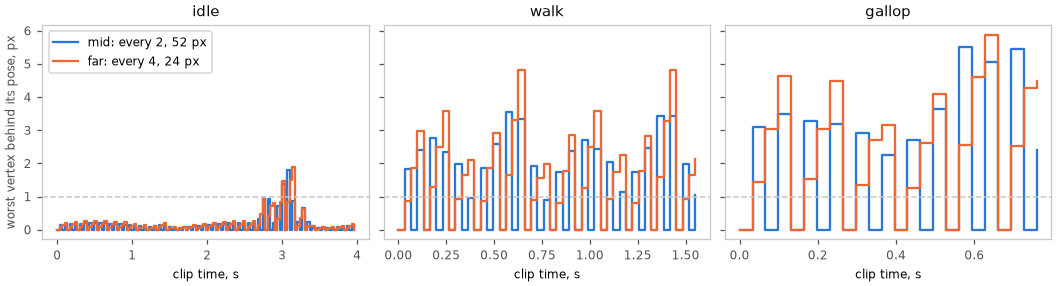
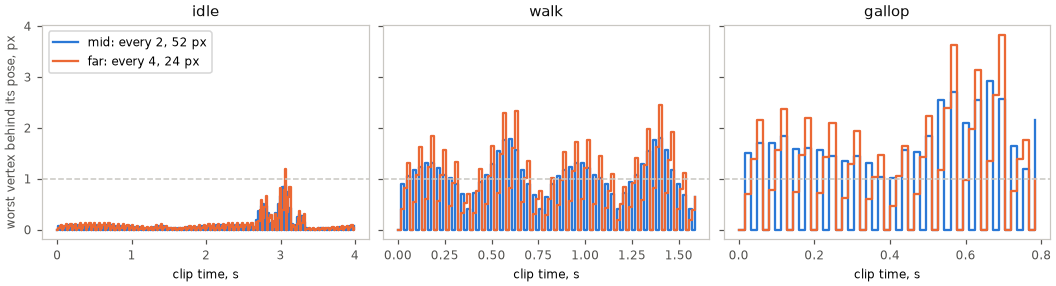
docs: align animation rate references and figures

diff --git a/launcher/tools/render/settings/tests/test_render_asset.py b/launcher/tools/render/settings/tests/test_render_asset.py
@@ -23,7 +23,9 @@ class RenderAssetTests(unittest.TestCase):
         self.assertEqual(render_asset.load(self.settings("batched = false\n")),
                          {"cull": True, "depth_fit": True, "batched": False, "partial_redraw": True, "lod.tolerance_px": 2.0,
                           "lod.hysteresis_px": 0.5, "lod.coverage_permille": 250, "lod.pick_every": 4,
-                          "lod.triangle_budget": 0, "lod.blend": 0, "lod.blend_px": 0.25})
+                          "lod.triangle_budget": 0, "lod.blend": 0, "lod.blend_px": 0.25}
+                         | {key: value for key, value in render_asset.read(render_asset.DEFAULT).items()
+                            if key.startswith("anim.")})
         lod = render_asset.load(self.settings("[lod]\ncoverage_permille = 100\n"))
         self.assertEqual(lod["lod.coverage_permille"], 100)
 
@@ -32,7 +34,11 @@ class RenderAssetTests(unittest.TestCase):
         self.assertEqual((list(rows.items()), frac), ([("cull", [0]), ("depth_fit", [1]), ("batched", [1]),
                                                   ("partial_redraw", [1]), ("lod.tolerance_px", [32]), ("lod.hysteresis_px", [8]),
                                                   ("lod.coverage_permille", [250]), ("lod.pick_every", [4]),
-                                                  ("lod.triangle_budget", [0]), ("lod.blend", [0]), ("lod.blend_px", [4])],
+                                                  ("lod.triangle_budget", [0]), ("lod.blend", [0]), ("lod.blend_px", [4])]
+                                                  + [(key, [int(value * (1 << render_asset.FRAC_BITS))
+                                                            if render_asset.fields()[key][0] == "float" else value])
+                                                     for key, value in render_asset.read(render_asset.DEFAULT).items()
+                                                     if key.startswith("anim.")],
                                                  4))
 
     def test_an_int_bakes_as_itself_up_to_a_row_s_most(self):

diff --git a/launcher/tools/tests/test_rate_figures.py b/launcher/tools/tests/test_rate_figures.py
@@ -29,6 +29,39 @@ class RateFiguresTest(unittest.TestCase):
                     "anim.far_every": 4, "anim.far_px": 20.0}
         self.assertEqual([(every, px) for _, every, px in rate_figures.tiers(settings)], [(2, 52.0), (4, 24.0)])
 
+    def test_lag_uses_the_worst_of_several_vertices(self):
+        frames = [[(0, 0, 0), (0, 0, 0)], [(1, 0, 0), (0, 3, 4)],
+                  [(9, 0, 0), (0, 0, 0)], [(10, 0, 0), (0, 0, 2)]]
+        self.assertEqual(rate_figures.lag(frames, 2), [0, 5, 0, 2])
+
+    def test_loop_frame_count_edges(self):
+        class Asset:
+            def __init__(self, duration):
+                self.seconds = duration
+
+            def duration(self, clip):
+                return self.seconds
+
+            def sample(self, clip, time):
+                return time
+
+            def skin(self, time):
+                return [[(time, 0, 0)]], None
+
+        frame = rate_figures.FRAME_MS / rate_figures.MS_PER_S
+        for duration, count in ((0, 1), (frame / 2, 1), (frame, 1), (2 * frame, 2), (2.5 * frame, 2)):
+            with self.subTest(duration=duration):
+                times, frames = rate_figures.loop(Asset(duration), "clip")
+                self.assertEqual(times, [i * frame for i in range(count)])
+                self.assertEqual(len(frames), count)
+
+    def test_tiers_read_the_default_settings_keys(self):
+        settings = rate_figures.render_asset.read(rate_figures.render_asset.DEFAULT)
+        got = [(every, px) for _, every, px in rate_figures.tiers(settings)]
+        self.assertEqual(got, [(settings[f"anim.{name}_every"],
+                               settings[f"anim.{name}_px"] + settings["anim.hysteresis_px"])
+                              for name in rate_figures.TIER_NAMES])
+
     def test_the_radius_is_the_half_diagonal_of_the_box(self):
         self.assertAlmostEqual(rate_figures.bind_radius([(0.0, 0.0, 0.0), (2.0, 2.0, 1.0)]), 1.5)
 

diff --git a/launcher/tools/anim/playback/rate_figures.py b/launcher/tools/anim/playback/rate_figures.py
@@ -8,7 +8,6 @@ Between poses a copy draws the pose of the last frame it was posed on, which cau
 lags by the clip's motion over up to N - 1 frames. The worst vertex's offset, in model units, is scaled to
 pixels as the LOD measures size: the bind pose's box, its half diagonal the radius, drawn at the tier's widest
 (its threshold plus the hysteresis). Prints each clip's worst and mean per tier.
-launcher/tools/render/render_doc_images.sh runs it.
 """
 
 import argparse
@@ -18,12 +17,13 @@ import sys
 
 TOOLS = pathlib.Path(__file__).resolve().parents[2]
 sys.path.insert(0, str(TOOLS))
+from build.c_header import read_define  # noqa: E402
 from docs.plot_style import FAINT, LABEL_SIZE, MUTED, SLOTS, save, style_axes, subplots  # noqa: E402
 from r3d import gltf_skin  # noqa: E402
 from render.settings import render_asset  # noqa: E402
 
-# The frame the lag is measured at: a 30 Hz frame, the board's rate for a skinned scene.
-FRAME_MS = 33
+# The board still-herd comparison uses this same step.
+FRAME_MS = read_define(TOOLS.parent / "main/lab/test/lab_test.h", "LAB_TEST_FRAME_MS")
 MS_PER_S = 1000
 PANEL = (3.2, 2.6)  # inches per panel
 ONE_PIXEL = 1.0

diff --git a/docs/Citations.md b/docs/Citations.md
@@ -125,4 +125,4 @@ How to add or cite one is in [Citing sources](tools/Citing-Sources.md).
 | <a id="strugar-2009"></a>[118] | F. Strugar. *Continuous Distance-Dependent Level of Detail for Rendering Heightmaps.* Journal of Graphics, GPU, and Game Tools 14(4), 2009. [doi:10.1080/2151237X.2009.10129287](https://doi.org/10.1080/2151237X.2009.10129287) · [github.com/fstrugar/CDLOD](https://github.com/fstrugar/CDLOD)<br>The morph factor is a function of the view alone and reaches whole before the switch; here it is the group's projected error, not distance, over a ramp above the pick's hysteresis band.<br>`Strugar 2009` cited by: [docs/render/frame/Levels-of-Detail.md](render/frame/Levels-of-Detail.md), [launcher/tools/r3d/lod/morph.py](../launcher/tools/r3d/lod/morph.py) |
 | <a id="majercik-2021"></a>[119] | Z. Majercik, A. Marrs, J. Spjut, M. McGuire. *Scaling Probe-Based Real-Time Dynamic Global Illumination for Production.* Journal of Computer Graphics Techniques 10(2), 2021. [jcgt.org/published/0010/02/01](https://jcgt.org/published/0010/02/01/)<br>Probe classification by back-face share and relocation off walls, used here to place fit views from a static source.<br>`Majercik et al. 2021` cited by: [docs/render/offline/Mesh-Import.md](render/offline/Mesh-Import.md), [launcher/tools/r3d/fit/probes.py](../launcher/tools/r3d/fit/probes.py) |
 | <a id="minoux-1978"></a>[120] | M. Minoux. *Accelerated Greedy Algorithms for Maximizing Submodular Set Functions.* Optimization Techniques, Lecture Notes in Control and Information Sciences 7, Springer, 1978. [doi:10.1007/BFb0006528](https://doi.org/10.1007/BFb0006528)<br>Lazy greedy maximum coverage, used here to pick probe faces by newly shown triangles.<br>`Minoux 1978` cited by: [docs/render/offline/Mesh-Import.md](render/offline/Mesh-Import.md), [launcher/tools/r3d/fit/probes.py](../launcher/tools/r3d/fit/probes.py) |
-| <a id="epic-unreal-animation-optimization"></a>[121] | Epic Games. *Animation Optimization in Unreal Engine: Update Rate Optimizations.* Unreal Engine 5 documentation. [dev.epicgames.com/documentation/en-us/unreal-engine/animation-optimization-in-unreal-engine](https://dev.epicgames.com/documentation/en-us/unreal-engine/animation-optimization-in-unreal-engine)<br>Cited by: [docs/render/animation/Skinned-Meshes.md](render/animation/Skinned-Meshes.md) |
+| <a id="epic-unreal-animation-optimization"></a>[121] | Epic Games. *Animation Optimization in Unreal Engine: Update Rate Optimizations.* Unreal Engine 5 documentation. [dev.epicgames.com/documentation/en-us/unreal-engine/animation-optimization-in-unreal-engine](https://dev.epicgames.com/documentation/en-us/unreal-engine/animation-optimization-in-unreal-engine). Recommends lower update rates at distance with interpolation disabled; this tree selects rates by projected box radius and catches up skipped time.<br>Cited by: [docs/render/animation/Skinned-Meshes.md](render/animation/Skinned-Meshes.md) |

diff --git a/docs/tools/Figures.md b/docs/tools/Figures.md
@@ -29,7 +29,7 @@ is stale, so rerun it after changing an image or the pages that show one.
 | <a href="../images/anim/anim-blend.png"><img src="../images/anim/anim-blend.png" width="160" alt=""></a> | Blend weight against app time, ramping 0 to 1 after each play and restarting from the frozen pose at the interruption; below, one joint's turn as shown, as the current clip alone and in the previous slot | [render/animation/Animation-Tracks](../render/animation/Animation-Tracks.md) | not declared yet |
 | <a href="../images/anim/anim-nlerp.png"><img src="../images/anim/anim-nlerp.png" width="160" alt=""></a> | A 150 degree turn by blend weight: nlerp lags slerp early and leads it late; its angular speed peaks mid-blend while slerp's is constant | [render/animation/Animation-Tracks](../render/animation/Animation-Tracks.md) | not declared yet |
 | <a href="../images/anim/anim-playhead.png"><img src="../images/anim/anim-playhead.png" width="160" alt=""></a> | Clip time against app time: a loop wraps at the clip's duration and a clamp holds there; speed 0.5 halves the slope, a pause holds it flat and speed 2 doubles it | [render/animation/Animation-Tracks](../render/animation/Animation-Tracks.md) | not declared yet |
-| <a href="../images/anim/anim-rate-lag.png"><img src="../images/anim/anim-rate-lag.png" width="160" alt=""></a> | Worst vertex behind its true pose, in pixels, for idle, walk and gallop at the widest mid and far sizes, posed every 2 and every 4 frames at 30 Hz | [render/animation/Skinned-Meshes](../render/animation/Skinned-Meshes.md) | not declared yet |
+| <a href="../images/anim/anim-rate-lag.png"><img src="../images/anim/anim-rate-lag.png" width="160" alt=""></a> | Worst vertex behind its true pose, in pixels, for idle, walk and gallop at the widest mid and far sizes, posed every 2 and every 4 frames with a 16 ms frame | [render/animation/Skinned-Meshes](../render/animation/Skinned-Meshes.md) | not declared yet |
 
 ## audio
 

diff --git a/docs/render/animation/Skinned-Meshes.md b/docs/render/animation/Skinned-Meshes.md
@@ -152,13 +152,15 @@ projected radius on the last frame, with
 | below `anim.mid_px` | every `anim.mid_every` frames |
 | below `anim.far_px`, or off screen | every `anim.far_every` frames |
 
-Copies are staggered by index, so the poses spread over frames. A skipped
-copy draws its last skinned positions; its next pose catches up the owed
-time. Skin, light or clip changes, seeks and shows pose at once.
+Each threshold moves by `anim.hysteresis_px` once a copy is in the tier.
 
-![Worst vertex behind its true pose, in pixels, for idle, walk and gallop at the widest mid and far sizes, posed every 2 and every 4 frames at 30 Hz](../../images/anim/anim-rate-lag.png)
+Staggered copies spread poses across frames. Skipped copies keep their skin;
+their next pose pays owed time. Clip changes, seeks and shows pose at once.
+Transform and light changes re-skin with the kept palette.
 
-`launcher/tools/anim/playback/rate_figures.py` measures the lag above from
+![Worst vertex behind its true pose, in pixels, for idle, walk and gallop at the widest mid and far sizes, at the mid and far pose rates with a 16 ms frame](../../images/anim/anim-rate-lag.png)
+
+[`rate_figures.py`](../../../launcher/tools/anim/playback/rate_figures.py) measures the lag above from
 the glTF clips and the default settings.
 
 ## 6. Current limits

diff --git a/docs/render/animation/Skeleton-and-Skin.md b/docs/render/animation/Skeleton-and-Skin.md
@@ -225,4 +225,4 @@ runs both, with the model and clip it names, and rewrites the figures and tables
 ## Current limits
 
 Playback limits are in [Animation tracks](Animation-Tracks.md#scene-playback);
-authoring limits are in [Skinned Meshes](Skinned-Meshes.md#5-current-limits).
+authoring limits are in [Skinned Meshes](Skinned-Meshes.md#6-current-limits).
